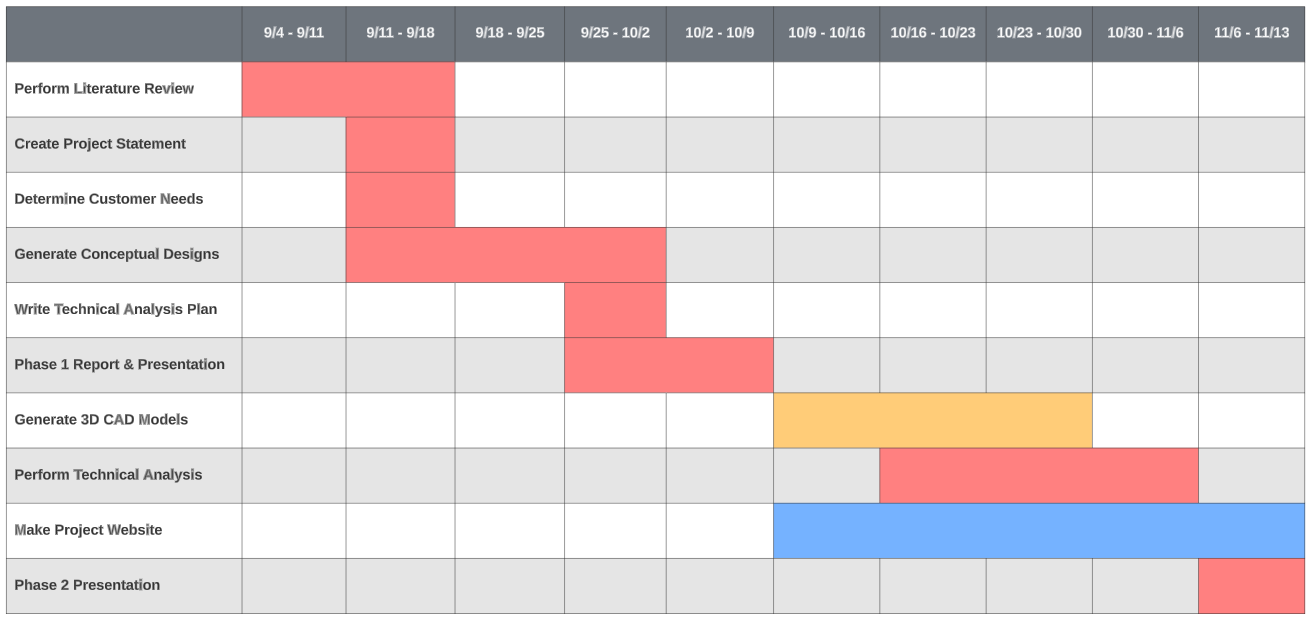
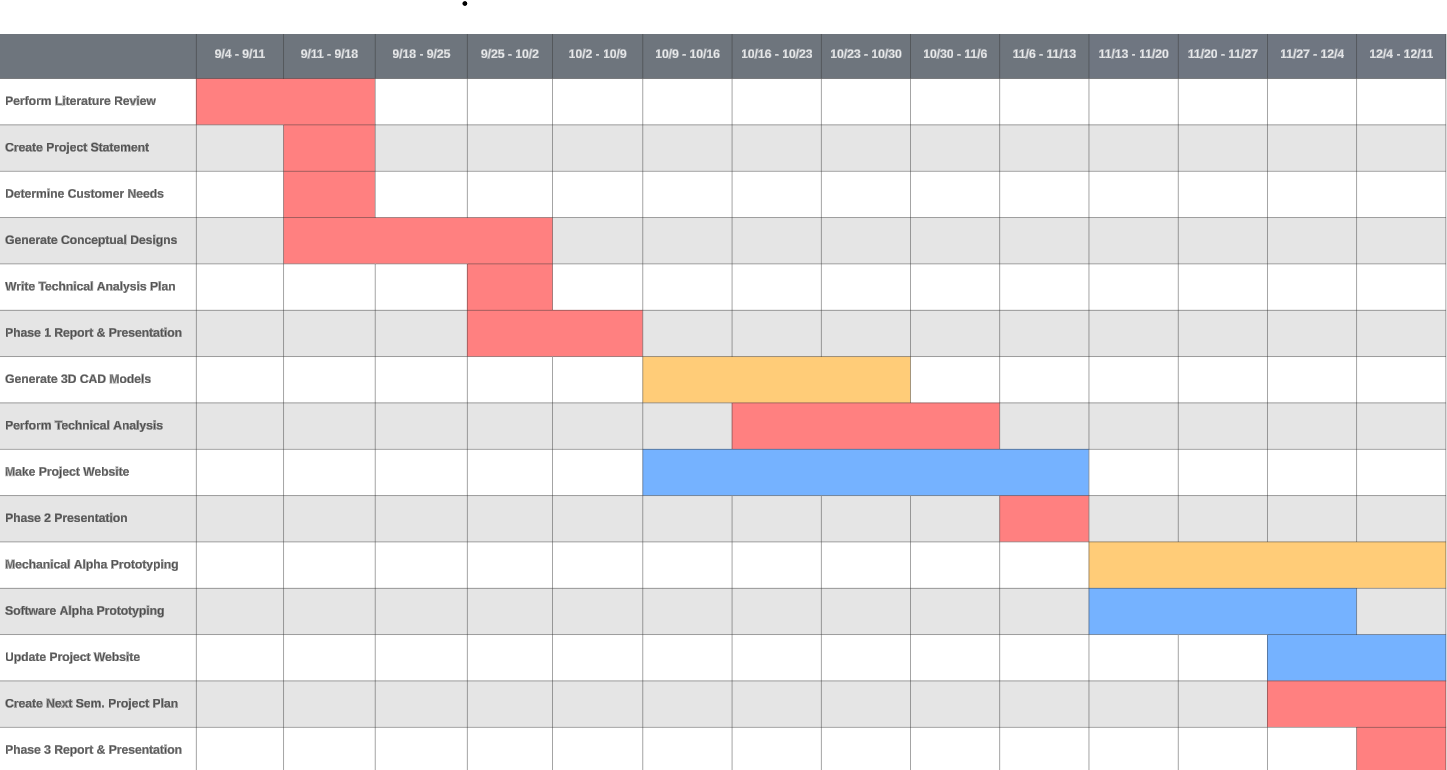
updated p3

diff --git a/src/components/softalpha3.jsx b/src/components/softalpha3.jsx
@@ -1,0 +1,23 @@
+import { duino } from "../assets";
+import styles, { layout } from "../style";
+
+const SoftAlpha1 = () => (
+    <section id="p2" className={layout.section}>
+    <div className={layout.sectionInfo}>
+      <h2 className={styles.heading2}>
+        Arduino <br></br> Alpha Prototype 
+      </h2>
+      <p className={`${styles.paragraph} max-w-[470px] mt-5`}>
+      First, the libraries Servo for motor usage and Virtual Wire for message sending protocol are included, then the constants for pins and motor object are initialized. In the setup function, virtual wire is initialized at a bitrate of 2000 Bits per second and the pins are attached to their objects. In the main loop, the system resides in a default state of listening, awaiting a non-empty message signal through the receiver. Once it gets this signal, the motor is triggered for a default value of five seconds then turned off. The final section, receiveSignal() processes the receiver input buffer to search for a message, recording and returning it if it exists or returning an empty string by default. 
+
+
+      </p>
+    </div>
+
+    <div className={layout.sectionImg}>
+      <img src={duino} alt="billing" className="w-[100%] h-[100%]" />
+    </div>
+  </section>
+);
+
+export default SoftAlpha1;

diff --git a/src/components/mechalpha1.jsx b/src/components/mechalpha1.jsx
@@ -1,0 +1,23 @@
+import styles, { layout } from "../style";
+import { alpha3 } from "../assets";
+
+const MechAlpha1 = () => (
+    <section id="product" className={layout.sectionReverse}>
+    <div className={layout.sectionImgReverse}>
+      <img src={alpha3} alt="billing" className="w-[90%] h-[85%] relative z-[5]" />
+      <div className="absolute z-[3] -left-1/2 top-0 w-[50%] h-[50%] rounded-full white__gradient" />
+      <div className="absolute z-[0] w-[50%] h-[50%] -left-1/2 bottom-0 rounded-full pink__gradient" />
+    </div>
+
+    <div className={layout.sectionInfo}>
+      <h2 className={styles.heading2}>
+        Mechanical <br></br> Alpha Prototype
+      </h2>
+      <p className={`${styles.paragraph} max-w-[470px] mt-5`}>
+      The alpha prototype consisted of two subsystems that would send and receive signals from each other to function. In subsystem one, the arduino board is component 1, the breadboard is component 2, the transmitter is component 3, 4 is the receiver, 5 is the NFC module, and 6 is the NFC tag. For subsystem two, 7 corresponds to the solenoid, 8 is the breadboard, 9 is the transmitter, 10 is the battery, 11 is the arduino board, and 12 is the receiver.
+      </p>
+    </div>
+  </section>
+);
+
+export default MechAlpha1;

diff --git a/src/components/softalpha1.jsx b/src/components/softalpha1.jsx
@@ -1,0 +1,22 @@
+import { app1 } from "../assets";
+import styles, { layout } from "../style";
+
+const SoftAlpha1 = () => (
+    <section id="p2" className={layout.section}>
+    <div className={layout.sectionInfo}>
+      <h2 className={styles.heading2}>
+        Software <br></br> Alpha Prototype 
+      </h2>
+      <p className={`${styles.paragraph} max-w-[470px] mt-5`}>
+      The software alpha prototype is an Android app with a simple user interface for managing door lock states. It is coded with Java and leverages Android's navigation components, UI elements, and color coding to visually represent and control the lock status. The app includes a navigation drawer with toggle functionality, providing a user-friendly interface. The options shown when the navigation drawer is selected are Home, Activity, Settings, Emergency, and Log Out.
+
+      </p>
+    </div>
+
+    <div className={layout.sectionImg}>
+      <img src={app1} alt="billing" className="w-[50%] h-[90%]" />
+    </div>
+  </section>
+);
+
+export default SoftAlpha1;

diff --git a/src/App.jsx b/src/App.jsx
@@ -1,5 +1,5 @@
 import styles from "./style";
-import { Billing, Business, CardDeal, Clients, CTA, Footer, Navbar, Testimonials, Hero, Conceptual, Conceptual2, Conceptual3, Conceptual4, Conceptual5, SETech, SETech2, SETech3, Roger, Roger2, Adriana, Adriana2, Jun, Jun2 } from "./components";
+import { Billing, Business, CardDeal, Clients, CTA, Footer, Navbar, Testimonials, Hero, Conceptual, Conceptual2, Conceptual3, Conceptual4, Conceptual5, SETech, SETech2, SETech3, Roger, Roger2, Adriana, Adriana2, Jun, Jun2, MechAlpha1, MechAlpha2, SoftAlpha1, SoftAlpha2, SoftAlpha3 } from "./components";
 
 const App = () => (
   <div className="bg-primary w-full overflow-hidden">
@@ -37,6 +37,11 @@ const App = () => (
         <Adriana2 />
         <Jun />
         <Jun2 />
+        <MechAlpha1 />
+        <MechAlpha2 />
+        <SoftAlpha1 />
+        <SoftAlpha2 /> 
+        <SoftAlpha3 />
         <Footer />
       </div>
     </div>

diff --git a/src/components/mechalpha2.jsx b/src/components/mechalpha2.jsx
@@ -1,0 +1,19 @@
+import styles, { layout } from "../style";
+import { alpha1, alpha2} from "../assets";
+
+const MechAlpha2 = () => (
+    <section className={layout.section}>
+        <p>Study 1</p>
+        <p>Study 1</p>
+        <p>Study 1</p>
+        <div className= "flex flex-row justify-center items-center">
+        <img src={alpha1} alt="billing" className="h-[100%] w-[100%]" />
+        <br></br>
+        <p>Study 1</p>
+        <img src={alpha2} alt="billing" className="h-[100%] w-[100%]" />
+        <br></br>
+        </div>
+    </section>
+);
+
+export default MechAlpha2;

diff --git a/src/components/softalpha2.jsx b/src/components/softalpha2.jsx
@@ -1,0 +1,19 @@
+import styles, { layout } from "../style";
+import { app2, app3} from "../assets";
+
+const SoftAlpha2 = () => (
+    <section className={layout.section}>
+        <p>Study 1</p>
+        <p>Study 1</p>
+        <p>Study 1</p>
+        <div className= "flex flex-row justify-center items-center">
+        <img src={app2} alt="billing" className="h-[100%] w-[100%]" />
+        <br></br>
+        <p>Study 1</p>
+        <img src={app3} alt="billing" className="h-[100%] w-[100%]" />
+        <br></br>
+        </div>
+    </section>
+);
+
+export default SoftAlpha2;

diff --git a/src/assets/index.js b/src/assets/index.js
@@ -37,6 +37,13 @@ import adriana4 from "./adriana4.png"
 import jun1 from "./jun1.png"
 import jun2 from "./jun2.png"
 import jun3 from "./jun3.png"
+import alpha1 from "./alpha1.png"
+import alpha2 from "./alpha2.png"
+import alpha3 from "./alpha3.png"
+import app1 from "./app1.png"
+import app2 from "./app2.png"
+import app3 from "./app3.png"
+import duino from "./duino.png"
 
 export {
   airbnb,
@@ -78,4 +85,11 @@ export {
   people01,
   people02,
   people03,
+  alpha1,
+  alpha2,
+  alpha3,
+  app1,
+  app2,
+  app3,
+  duino
 };

diff --git a/src/components/index.js b/src/components/index.js
@@ -21,6 +21,11 @@ import Adriana from "./adriana"
 import Adriana2 from "./adriana2"
 import Jun from "./jun"
 import Jun2 from "./jun2"
+import MechAlpha1 from "./mechalpha1"
+import MechAlpha2 from "./mechalpha2"
+import SoftAlpha1 from "./softalpha1"
+import SoftAlpha2 from "./softalpha2"
+import SoftAlpha3 from "./softalpha3"
 
 export {
   Navbar,
@@ -43,6 +48,11 @@ export {
   SETech,
   SETech2,
   SETech3,
+  MechAlpha1,
+  MechAlpha2,
+  SoftAlpha1,
+  SoftAlpha2,
+  SoftAlpha3,
   Footer,
   Testimonials,
   Hero,
